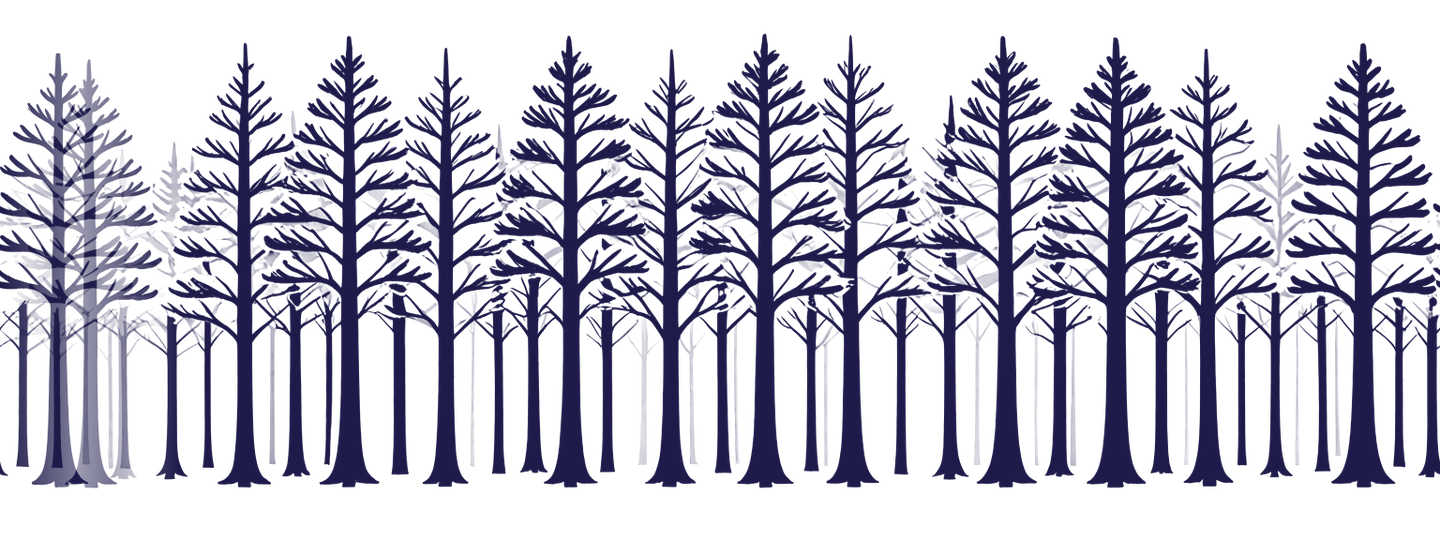
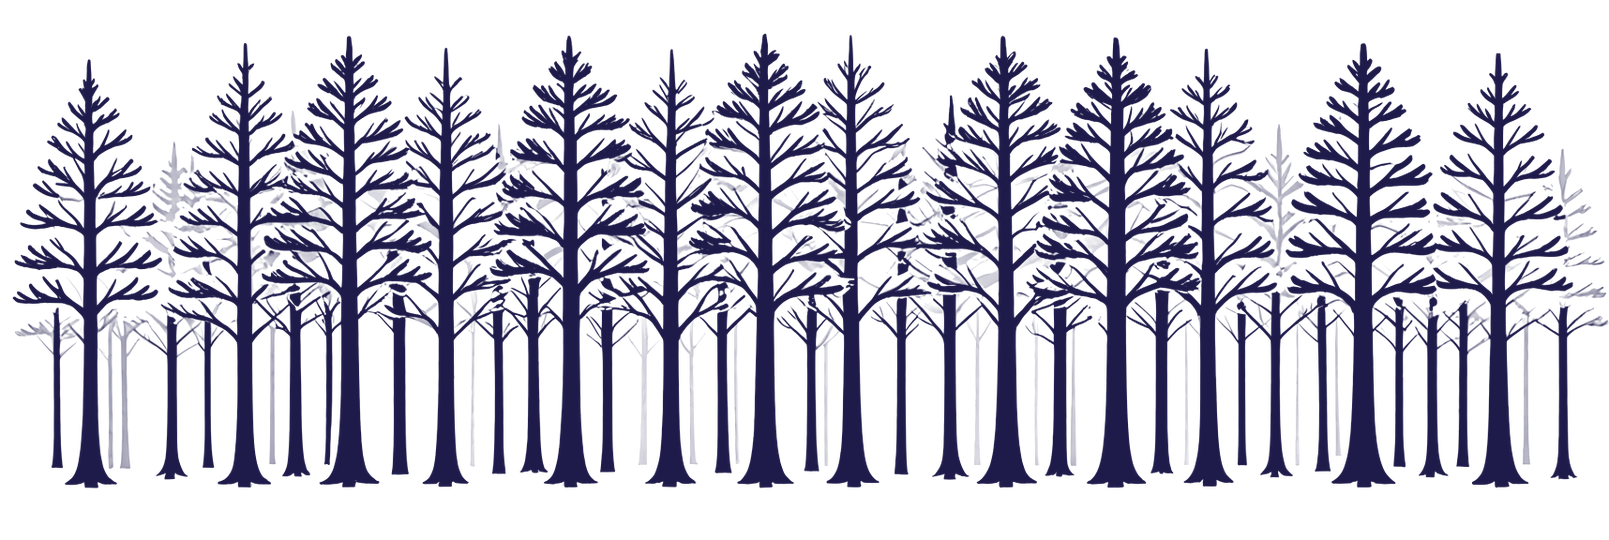
美術:背景接縫去掉重影、近景移除殘留凸出物、Zzz 改成畫線不用字型

diff --git a/docs/art/tools/process_level1b.py b/docs/art/tools/process_level1b.py
@@ -43,33 +43,55 @@ for cat, name, src, flip, box in PICKS:
     os.makedirs(A(cat), exist_ok=True)
     fit(im, box).save(A(cat, name + ".png"), optimize=True)
 
-# Zzz：用程式畫（模型不會寫字）。三個由小到大的 Z，月光黃填色、深紫外框
+# Zzz：用程式畫（模型不會寫字，也避免字型授權問題）。三個由小到大的 Z，月光黃、深紫外框
 def zzz():
     S = 256; im = Image.new("RGBA", (S, S), (0, 0, 0, 0)); d = ImageDraw.Draw(im)
-    for size, xy in [(70, (20, 150)), (95, (85, 80)), (125, (130, 0))]:
-        f = ImageFont.truetype("C:/Windows/Fonts/arialbd.ttf", size)
-        d.text(xy, "Z", font=f, fill=(248, 224, 142, 255), stroke_width=8, stroke_fill=(58, 42, 90, 255))
+    for size, (x, y) in [(60, (20, 170)), (80, (85, 95)), (105, (140, 10))]:
+        pts = [(x, y), (x + size, y), (x, y + size), (x + size, y + size)]
+        for width, color in [(26, (58, 42, 90, 255)), (14, (248, 224, 142, 255))]:
+            d.line(pts, fill=color, width=width, joint="curve")
+            for q in (pts[0], pts[-1]):
+                r = width // 2; d.ellipse((q[0] - r, q[1] - r, q[0] + r, q[1] + r), fill=color)
     return fit(im.crop(im.getchannel("A").getbbox()), (32, 32))
 os.makedirs(A("fx"), exist_ok=True); zzz().save(A("fx", "zzz.png"), optimize=True)
 
 # 三層視差背景：高度 540，左右可以無縫接續（頭尾交叉淡化）
 def seamless(im, n):
+    """頭尾交叉淡化（用在不透明的遠景）。"""
     w = im.width; out = im.crop((0, 0, w - n, im.height))
     head, tail = im.crop((0, 0, n, im.height)), im.crop((w - n, 0, w, im.height))
     ramp = Image.linear_gradient("L").rotate(90).resize((n, im.height))  # 左 0 → 右 255
     out.paste(Image.composite(head, tail, ramp), (0, 0))
     return out
 
+def cut_at_gaps(im, margin=260):
+    """剪影圖：在左右兩端各找一欄最空的地方（樹和樹的空隙）直接切開，不做淡化，才不會有重影。"""
+    a = im.getchannel("A"); w, h = a.size; px = a.load()
+    col = [sum(px[x, y] for y in range(0, h, 4)) for x in range(w)]
+    left = min(range(margin), key=lambda x: col[x]); right = min(range(w - margin, w), key=lambda x: col[x])
+    return im.crop((left, 0, right, h))
+
 def silhouette(path, color, strip_spikes=False):
     """白底黑剪影 → 依深淺轉成透明度，再染成指定顏色。"""
     g = Image.open(path).convert("L"); w, h = g.size
     alpha = g.point(lambda v: 0 if v > 235 else min(255, int((235 - v) * 255 / 200)))
-    if strip_spikes:  # 近景：把高出草叢的東西（模型自己加的小動物）切掉
+    if strip_spikes:  # 近景：模型自己加的小動物會高出草叢，用旁邊的草把那幾欄整欄換掉；細的草尖保留
         px = alpha.load(); tops = []
         for x in range(w):
-            y = next((y for y in range(h) if px[x, y] > 128), h); tops.append(y)
+            tops.append(next((y for y in range(h) if px[x, y] > 128), h))
         line = sorted(tops)[len(tops) // 2] - 18
-        ImageDraw.Draw(alpha).rectangle((0, 0, w, line), fill=0)
+        x = 0
+        while x < w:
+            if tops[x] < line:
+                x2 = x
+                while x2 < w and tops[x2] < line: x2 += 1
+                if x2 - x > 6:  # 比草尖寬的凸出物
+                    a0, a1 = max(0, x - 12), min(w, x2 + 12); width = a1 - a0
+                    src = a0 - width if a0 - width >= 0 else a1
+                    alpha.paste(alpha.crop((src, 0, src + width, h)), (a0, 0))
+                x = x2
+            else:
+                x += 1
     layer = Image.new("RGBA", (w, h), color + (0,)); layer.putalpha(alpha)
     return layer
 
@@ -78,7 +100,12 @@ far = Image.open(os.path.join(SRC, "bg/bg-far_00001_.png")).convert("RGB")
 mid = silhouette(os.path.join(SRC, "bg/bg-mid_00006_.png"), (30, 27, 75))
 near = silhouette(os.path.join(SRC, "bg/bg-near_00006_.png"), (20, 18, 46), strip_spikes=True)
 for name, im in [("forest-far", far), ("forest-mid", mid), ("forest-near", near)]:
-    im = seamless(im, 192)
+    if name == "forest-near":  # 原圖兩端沒有草，先裁到有草的範圍，再用短距離淡化接起來
+        col = [sum(1 for y in range(0, im.height, 2) if im.getpixel((x, y))[3] > 128) for x in range(im.width)]
+        full = sorted(col)[len(col) // 2] * 0.6
+        xs = [x for x, v in enumerate(col) if v >= full]
+        im = im.crop((xs[0] + 8, 0, xs[-1] - 8, im.height))
+    im = seamless(im, 192) if name == "forest-far" else cut_at_gaps(im) if name == "forest-mid" else seamless(im, 48)
     im = im.resize((round(im.width * 540 / im.height), 540), Image.LANCZOS)
     im.save(A("backgrounds", name + ".png"), optimize=True)
 print("ok")

diff --git a/docs/art/level1-assets.md b/docs/art/level1-assets.md
@@ -38,13 +38,13 @@
 | `public/assets/enemies/night-bat-sleep.png` | 熬夜蝙蝠 睡著 | 54×56 |  |
 | `public/assets/enemies/insomnia-hedgehog-sleep.png` | 失眠刺蝟 睡著 | 81×72 |  |
 | `public/assets/enemies/night-owl-boss-sleep.png` | 熬夜貓頭鷹 睡著 | 184×200 | 打倒關主後 |
-| `public/assets/fx/zzz.png` | Zzz 特效 | 31×32 | 程式畫的字，可以往上飄、淡出 |
-| `public/assets/fx/dream-sheep.png` | 變成小羊特效 | 40×36 | 半透明小羊在雲上，魔物睡著後飄走用 |
+| `public/assets/fx/zzz.png` | Zzz 特效 | 32×31 | 用程式畫的線條（不是字型），可以往上飄、淡出 |
+| `public/assets/fx/dream-sheep.png` | 變成小羊特效 | 40×36 | 小羊在雲上，魔物睡著後飄走用；圖本身不透明，半透明效果請程式調透明度 |
 | `public/assets/backgrounds/forest-far.png` | 三層背景：遠景（天空、月亮） | 1440×540 | 不透明；左右可無縫接續，捲動最慢 |
-| `public/assets/backgrounds/forest-mid.png` | 三層背景：中景（樹林剪影） | 1440×540 | 透明；左右可無縫接續，捲動中等 |
-| `public/assets/backgrounds/forest-near.png` | 三層背景：近景（草叢剪影） | 1440×540 | 透明；左右可無縫接續，捲動最快，草叢在地面線附近 |
+| `public/assets/backgrounds/forest-mid.png` | 三層背景：中景（樹林剪影） | 1609×540 | 透明；左右可無縫接續，捲動中等 |
+| `public/assets/backgrounds/forest-near.png` | 三層背景：近景（草叢剪影） | 1396×540 | 透明；左右可無縫接續，捲動最快，草叢在地面線附近 |
 
-三層背景疊法：遠景 → 中景 → 近景，三張寬度都是 1440（一個半畫面），重複排列就能一直捲動。舊的單張背景 `insomnia-forest.png` 留著，二選一用。
+三層背景疊法：遠景 → 中景 → 近景，三張寬度不同（遠景 1440、中景 1609、近景 1396），各自重複排列就能一直捲動；寬度不同反而不容易看出重複。舊的單張背景 `insomnia-forest.png` 留著，二選一用。
 
 ## 還沒做 / 已知問題
 

diff --git a/docs/assets-licenses.md b/docs/assets-licenses.md
@@ -26,7 +26,7 @@
 | `public/assets/backgrounds/insomnia-forest.png` | 同上，用旁邊草地蓋掉模型自己加的小動物，縮成 960×540 | Nova Cartoon XL v6.0（不加 LoRA） | 見上表 | 2026-10-21 |
 | `public/assets/enemies/*-phase2.png`、`*-phase3.png`、`*-sleep.png` | 本機 ComfyUI 以第一批魔物圖為底「照原圖修改」（img2img），`docs/art/tools/process_level1b.py` 去背縮圖 | Nova Cartoon XL v6.0＋Chibi Animal V2（強度 0.9） | 見上表 | 2026-10-21 |
 | `public/assets/fx/dream-sheep.png` | 本機 ComfyUI 生成，同上處理 | Nova Cartoon XL v6.0＋Chibi Animal V2（強度 0.9） | 見上表 | 2026-10-21 |
-| `public/assets/fx/zzz.png` | 程式繪製（Pillow），字型 Windows 內建 Arial Bold | 無 | 字形做成圖片使用；Windows 字型授權允許把文字輸出成圖片 | 2026-10-21 |
-| `public/assets/backgrounds/forest-far.png`、`forest-mid.png`、`forest-near.png` | 本機 ComfyUI 生成；中景、近景是白底黑剪影，用程式依深淺轉透明並染成夜空色；頭尾交叉淡化成可無縫接續 | Nova Cartoon XL v6.0（不加 LoRA） | 見上表 | 2026-10-21 |
+| `public/assets/fx/zzz.png` | 程式繪製（Pillow 畫線條，沒有用字型） | 無 | 自己畫的，沒有第三方授權問題 | 2026-10-21 |
+| `public/assets/backgrounds/forest-far.png`、`forest-mid.png`、`forest-near.png` | 本機 ComfyUI 生成；中景、近景是白底黑剪影，用程式依深淺轉透明並染成夜空色；遠景頭尾交叉淡化、中景在樹的空隙切開、近景裁掉兩端後短距離淡化，三張都可無縫接續 | Nova Cartoon XL v6.0（不加 LoRA） | 見上表 | 2026-10-21 |
 
 備註：純 AI 生成的圖，著作權保護在各國都還不明確（見企劃文件 8.3）。
